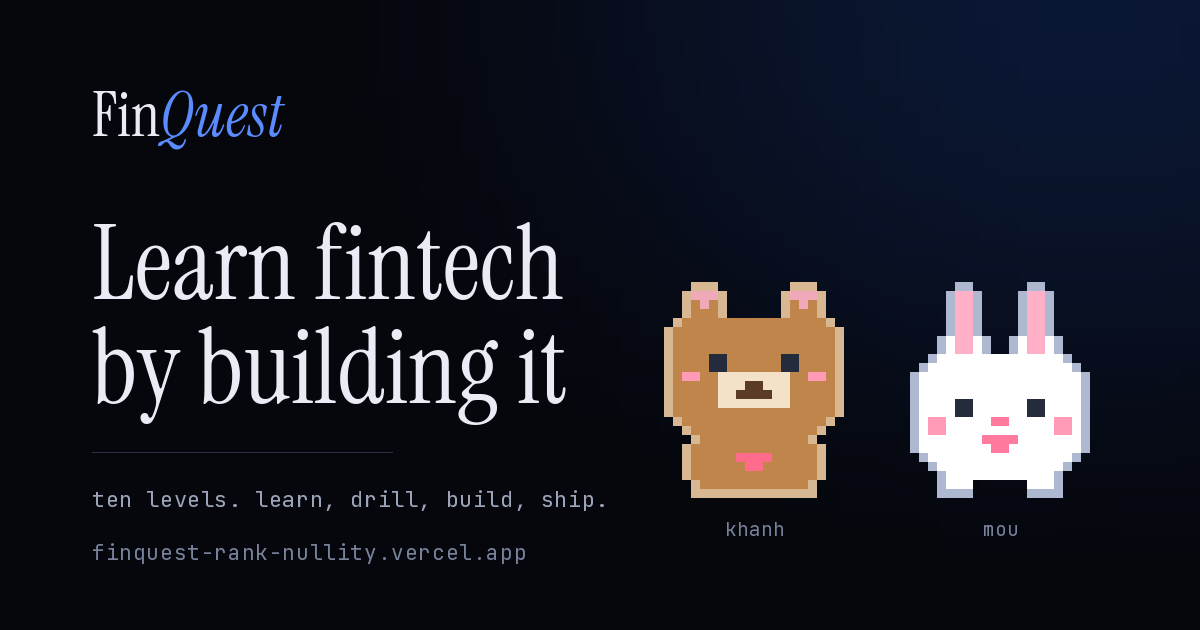
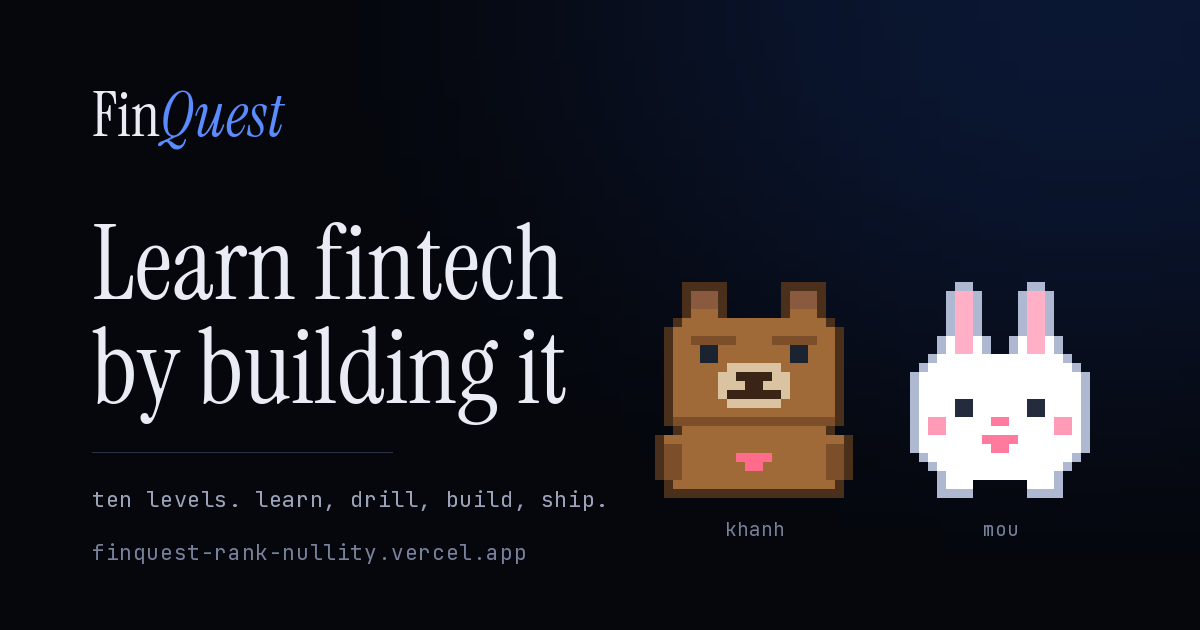
Redraw Khanh heavier, and give the front page a line a day
The bear read young and soft, which was not the intention. He is drawn
again with the four things that carry at 24 pixels: a dark outline
instead of a pale one, a brow ridge sitting straight on the eyes, a
square jaw that does not taper into the neck, and shoulders wider than
the head. The blush is gone and the inner ear is brown, because pink on
the face undoes the rest of it. He still carries her heart.

The blink and the swoon are redrawn to be visible at that size: the
mouth does the work, since two rows of grin read clearly where one row
of eyelid does not.

The caption under the pair is replaced by one line a day from
content/quotes.js. The date picks it, not a random number, so the whole
society reads the same line on the same day, it changes at local
midnight, and a reload does not shuffle it. Thirty four lines, written
for this course rather than collected, so nothing needs attributing.

Changed region(s): [[0.5242, 0.4222, 0.7092, 0.8143]]

diff --git a/assets/js/ui/bear.js b/assets/js/ui/bear.js
@@ -2,79 +2,83 @@
    Khanh: a 24 by 24 pixel bear who is fond of Mou.
 
    Same technique as mou.js: the sprite is text, one character per pixel, and
-   runs of a colour are merged into one rect. He is drawn slightly heavier than
-   Mou, with round ears and a broad muzzle, so the two read as different
-   animals at 24 pixels rather than the same shape in two colours.
+   runs of a colour are merged into one rect.
 
-     .  nothing        f  fur           e  eye
-     o  outline        p  inner ear     n  nose and mouth
-     b  blush          m  muzzle        h  the heart he is holding
+   He is drawn heavy on purpose. At this size the things that read as a big
+   male bear are a dark outline rather than a pale one, a brow ridge sitting
+   straight on the eyes, a square jaw that does not taper into the neck, and
+   shoulders wider than the head. No blush, and the inner ear is brown: pink
+   anywhere on the face undoes all of it.
+
+     .  nothing        f  fur           d  shaded fur: brow, jaw, arms
+     o  outline        p  inner ear     e  eye
+     m  muzzle         n  nose and mouth
+     h  the heart he carries for her
    ========================================================================= */
 import { html } from './lib.js';
 
 const W = 24;
 
 const PALETTE = {
-  o: '#D8B892',
-  f: '#C0854B',
-  p: '#F0A9B8',
-  m: '#F3E2C7',
-  e: '#232B3D',
-  n: '#5A3B26',
-  b: '#FF9BB6',
+  o: '#4A2F1B',
+  f: '#A06A38',
+  d: '#7C4E29',
+  p: '#8A5A3F',
+  m: '#D9C3A0',
+  e: '#1B2230',
+  n: '#3A2416',
   h: '#FF6B8A'
 };
 
 const FRAME = [
-  '.....ooo........ooo.....',  // 0
+  '....ooooo......ooooo....',  // 0  ears, small and set wide
   '....opppo......opppo....',  // 1
-  '....ofpfo......ofpfo....',  // 2
+  '....opppo......opppo....',  // 2
   '....offfo......offfo....',  // 3
   '...offffffffffffffffo...',  // 4
   '..offffffffffffffffffo..',  // 5
-  '..offffffffffffffffffo..',  // 6
-  '..offffffffffffffffffo..',  // 7
-  '..offffffffffffffffffo..',  // 8  face
-  '..offffffffffffffffffo..',  // 9  face
-  '..ofbbffmmmmmmmmffbbfo..',  // 10 face
-  '..offfffmmmnnmmmfffffo..',  // 11 face
-  '..offfffmmnmmnmmfffffo..',  // 12 face
-  '..offfffmmmmmmmmfffffo..',  // 13
-  '..offffffffffffffffffo..',  // 14
-  '...offffffffffffffffo...',  // 15
-  '....offffffffffffffo....',  // 16
-  '.....offffffffffffo.....',  // 17
-  '....offffffffffffffo....',  // 18
-  '....offfffhhhhfffffo....',  // 19 holding a heart
-  '....offffffhhffffffo....',  // 20
-  '....offffffffffffffo....',  // 21
-  '.....offffffffffffo.....',  // 22
-  '.....oooooooooooooo.....'   // 23
+  '..offdddddffffdddddffo..',  // 6  brow ridge
+  '..offfeeffffffffeefffo..',  // 7  eyes, straight under it
+  '..offfeeffffffffeefffo..',  // 8
+  '..offffffmmmmmmffffffo..',  // 9  muzzle
+  '..offfffmmnnnnmmfffffo..',  // 10 nose
+  '..offfffmmmnnmmmfffffo..',  // 11
+  '..offfffmnnnnnnmfffffo..',  // 12 mouth, flat
+  '..offffffmmmmmmffffffo..',  // 13
+  '..offffffffffffffffffo..',  // 14 jaw, square
+  '..oddddddddddddddddddo..',  // 15
+  '...offffffffffffffffo...',  // 16
+  '.offffffffffffffffffffo.',  // 17 shoulders, wider than the head
+  '.oddffffffffffffffffddo.',  // 18 arms
+  '.oddffffffhhhhffffffddo.',  // 19 the heart he carries
+  '.oddfffffffhhfffffffddo.',  // 20
+  '.oddffffffffffffffffddo.',  // 21
+  '..offffffffffffffffffo..',  // 22
+  '..oooooooooooooooooooo..'   // 23
 ];
 
 const MOODS = {
-  /* Resting face: eyes forward, mouth closed. He is not staring at anybody. */
-  idle: {
-    8:  '..offffeeffffffeeffffo..',
-    9:  '..offffeeffffffeeffffo..',
-    12: '..offfffmmnnnnmmfffffo..'
-  },
+  /* The resting face is the frame itself: eyes forward, mouth flat. He is not
+     staring at anybody. */
+  idle: {},
 
-  /* Eyes shut for a moment. Nothing else moves, which is what makes it read
-     as a blink rather than a mood. */
+  /* Eyes shut for a moment: one dark row, a little wider than the open eye,
+     which is how a closed eye reads at this size. Nothing else moves. */
   blink: {
-    9:  '..offffeeffffffeeffffo..',
-    12: '..offfffmmnnnnmmfffffo..'
+    7: '..offffffffffffffffffo..',
+    8: '..offeeeffffffffeeeffo..'
   },
 
-  /* The one moment he looks her way: eyes shut, cheeks up, a wide smile. It
-     lasts about two seconds and then he faces forward again. */
+  /* The one moment he looks her way. The brow lifts, the eyes close and the
+     mouth opens into a grin. It lasts about two seconds, and the mouth is
+     what carries it: two rows of it are visible at 24 pixels, an eyelid is
+     barely one. */
   love: {
-    8:  '..offffeeffffffeeffffo..',
-    9:  '..offfeffeffffeffefffo..',
-    11: '..offfffmmmnnmmmfffffo..',
-    12: '..offfffmnnnnnnmfffffo..',
-    13: '..offfffmmnnnnmmfffffo..'
+    6: '..ofdddddffffffdddddfo..',
+    7: '..offffffffffffffffffo..',
+    8: '..offeeeffffffffeeeffo..',
+    12: '..offfffnnnnnnnnfffffo..',
+    13: '..offffffmnnnnmffffffo..'
   }
 };
 
@@ -130,11 +134,14 @@ export function PixelHeart({ size = 16 }) {
     </svg>`;
 }
 
-/* Same check mou.js makes: a mistyped row skews the whole sprite silently. */
+/* Same check mou.js makes: a mistyped row skews the whole sprite silently, and
+   an asymmetric one gives him a crooked face nobody can quite explain. */
 Object.keys(MOODS).forEach((mood) => {
   rowsFor(mood).forEach((row, y) => {
     if (row.length !== W) {
       console.error(`Bear sprite: ${mood} row ${y} is ${row.length} pixels, expected ${W}`);
+    } else if (row.slice(0, W / 2) !== row.slice(W / 2).split('').reverse().join('')) {
+      console.error(`Bear sprite: ${mood} row ${y} is not symmetric`);
     }
   });
 });

diff --git a/content/quotes.js b/content/quotes.js
@@ -1,0 +1,47 @@
+/* =========================================================================
+   One line a day, under the two of them on the home page.
+
+   Written for this course rather than collected from elsewhere, so they can
+   say something a member here will actually use, and so nothing needs quoting
+   or attributing. Keep them short enough to read without meaning to.
+
+   The day picks the line, not a random number, so everybody in the society
+   sees the same one on the same day and it changes at local midnight. Add as
+   many as you like: the list can be any length.
+   ========================================================================= */
+FQ.registerQuotes([
+  'Start the level you have been avoiding. It is the one that changes what you can build.',
+  'A number you cannot explain is a number you do not have.',
+  'Read the error message. It is the only part of the program trying to help you.',
+  'Everything in finance is arithmetic somebody can check. Be the one who checks it.',
+  'Ship the rough version. You can only improve something that exists.',
+  'You do not need a better idea today. You need the next twenty minutes.',
+  'Copying the answer feels like progress for about a day.',
+  'Write the test that would have caught it, then carry on.',
+  'Money that cannot be traced is money somebody will argue about later.',
+  'If the code runs and you cannot say why, you are halfway there at best.',
+  'Small and correct travels further than large and hopeful.',
+  'Nobody remembers the build that went smoothly. You will remember this one.',
+  'A cent is a rounding error until there are a million of them.',
+  'Ask the question early. The price of asking goes up every hour you wait.',
+  'Two hours of reading beats two days of guessing, and it is the harder habit.',
+  'The drill measures. The build is where you find out.',
+  'Understand the formula once and you will never look it up in a panic.',
+  'Being stuck is information. Write down exactly where.',
+  'Your first ledger will not balance. That is the lesson arriving, on time.',
+  'Slow is fine. Stopping is the only thing that costs you the level.',
+  'Every system you admire started as something worse than what you have now.',
+  'Explain it to somebody. The gaps turn up in your own sentences.',
+  'A model you cannot explain is a decision you cannot defend.',
+  'Do the boring validation. It is the part that runs at three in the morning.',
+  'You learn a tool by needing it, never by reading about it.',
+  'Write it down while you still remember what confused you.',
+  'Interest is patient. So is practice.',
+  'Build for the person who opens your repository knowing nothing.',
+  'One level a week is ten weeks. That is the whole course.',
+  'The answer key is worth something afterwards and nothing before.',
+  'What you can do next month is decided by what you open today.',
+  'Rent, groceries, a coffee: every fintech product is somebody\'s Tuesday.',
+  'Precision is a kindness. Somebody has to trust this number.',
+  'The gap between knowing and having built it is the whole job.'
+]);

diff --git a/assets/js/core.js b/assets/js/core.js
@@ -9,14 +9,30 @@
   'use strict';
 
   var LEVELS = [];
+  var QUOTES = [];
 
   var FQ = {
     levels: LEVELS,
+    quotes: QUOTES,
 
     /* ---------------------------- registry ---------------------------- */
     registerLevel: function (level) {
       LEVELS.push(level);
       LEVELS.sort(function (a, b) { return a.id - b.id; });
+    },
+
+    registerQuotes: function (lines) {
+      lines.forEach(function (line) { QUOTES.push(line); });
+    },
+
+    /* The line for a given day, the same one for everybody in the society,
+       changing at local midnight. A date rather than a random number, so
+       nobody gets three different quotes from three reloads. */
+    quoteOfTheDay: function (when) {
+      if (!QUOTES.length) return '';
+      var d = when || new Date();
+      var day = Math.floor(Date.UTC(d.getFullYear(), d.getMonth(), d.getDate()) / 86400000);
+      return QUOTES[((day % QUOTES.length) + QUOTES.length) % QUOTES.length];
     },
 
     level: function (id) {

diff --git a/assets/css/app.css b/assets/css/app.css
@@ -178,6 +178,28 @@ p.lede {
 .mono-s { font-family: var(--mono); font-size: 0.76rem; letter-spacing: 0; color: var(--graphite); }
 .figure { font-family: var(--mono); font-variant-numeric: tabular-nums; letter-spacing: -0.01em; }
 
+/* The line of the day, under the two of them on the home page. Set in the
+   reading face rather than the mono one: it is a sentence to read, not a
+   label to scan. */
+.daily {
+  margin: 14px 0 0;
+  max-width: 34ch;
+  font-family: var(--text);
+  font-size: 1.02rem;
+  font-style: italic;
+  line-height: 1.5;
+  color: var(--ash);
+}
+.daily-label {
+  display: block;
+  font-family: var(--mono);
+  font-style: normal;
+  font-size: 0.72rem;
+  letter-spacing: var(--track-mono);
+  color: var(--accent);
+  margin-bottom: 6px;
+}
+
 a { color: inherit; text-decoration: none; }
 a.link {
   color: var(--bone);

diff --git a/assets/js/ui/views.js b/assets/js/ui/views.js
@@ -65,8 +65,11 @@ export function Home({ onAskTutor }) {
           </h1>
           <div style=${{ marginTop: '30px' }}>
             <${Companions} size=${60} />
-            <p class="mono-s" style=${{ marginTop: '12px' }}>
-              Mou tutors. Khanh keeps her company.
+            <!-- One line, picked by the date rather than at random, so the
+                 whole society sees the same one on the same day. -->
+            <p class="daily">
+              <span class="daily-label">today</span>
+              ${FQ.quoteOfTheDay()}
             </p>
           </div>
         </div>

diff --git a/index.html b/index.html
@@ -60,6 +60,7 @@
   <script src="assets/js/storage.js"></script>
 
   <!-- ============ curriculum ============ -->
+  <script src="content/quotes.js"></script>
   <script src="content/levels/level-01.js"></script>
   <script src="content/levels/level-02.js"></script>
   <script src="content/levels/level-03.js"></script>

diff --git a/README.md b/README.md
@@ -89,8 +89,9 @@ questions across the course, each one worked on the same figures the level teach
 ## Mou and Khanh
 
 Mou is the tutor: a 24 by 24 pixel rabbit who sits behind the **mou** button, or
-<kbd>Ctrl</kbd>+<kbd>K</kbd>, and knows which level you are on. Khanh is a bear who is fond of Mou
-and keeps her company on the front page. Both are drawn as text, one character per pixel, in
+<kbd>Ctrl</kbd>+<kbd>K</kbd>, and knows which level you are on. Khanh is the heavy brown bear beside
+her on the front page, fond of her and not subtle about it. Both are drawn as text, one character
+per pixel, in
 [`assets/js/ui/mou.js`](assets/js/ui/mou.js) and [`bear.js`](assets/js/ui/bear.js), so a mood can be
 edited by eye:
 
@@ -100,7 +101,9 @@ edited by eye:
 ```
 
 They blink on their own timers and Khanh grins at Mou every few seconds, all of which stops if the
-reader has asked for reduced motion.
+reader has asked for reduced motion. Under the two of them the front page carries one line from
+[`content/quotes.js`](content/quotes.js), picked by the date rather than at random, so everybody in
+the society reads the same one on the same day and it changes at local midnight.
 
 | Tutor mode | Setup | What you get |
 |------|-------|--------------|
